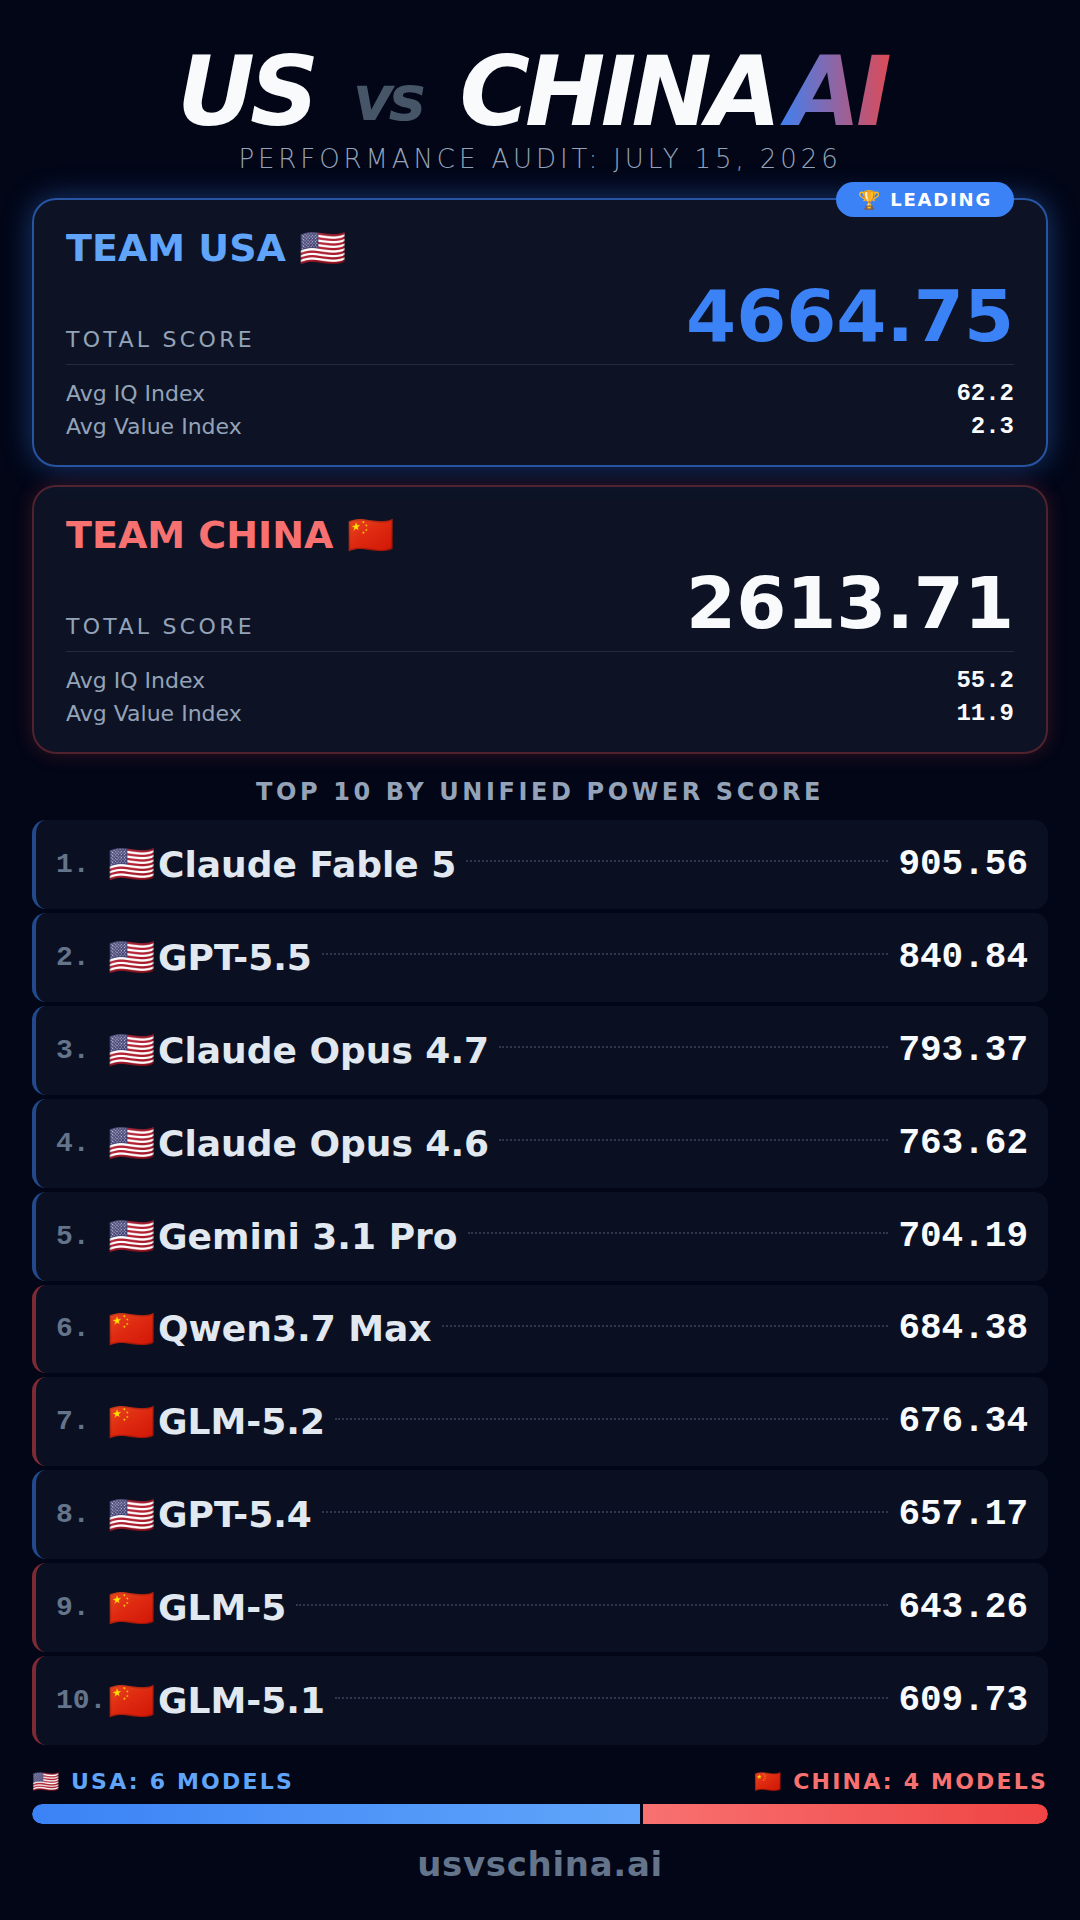
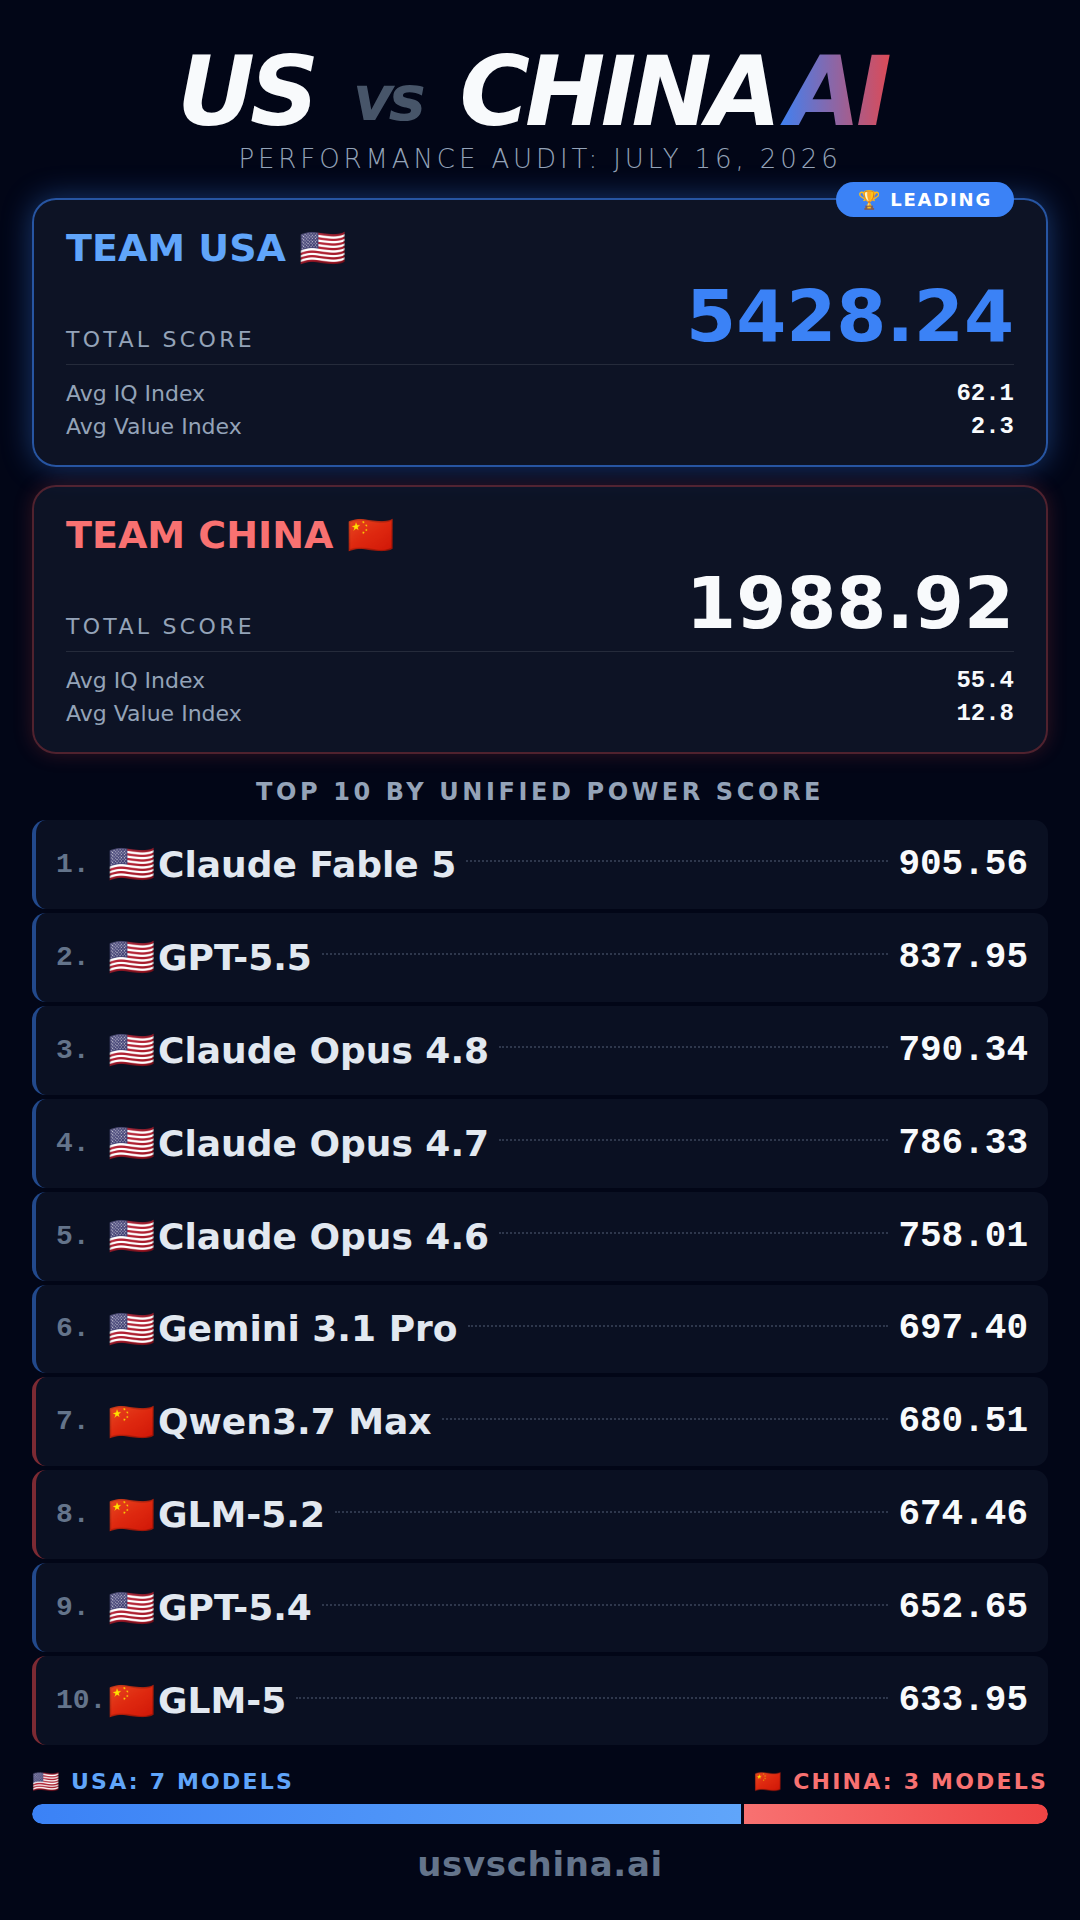
Daily scrape run - 2026-07-16T05:06:05 UTC

diff --git a/about.html b/about.html
@@ -27,7 +27,7 @@
     <meta property="og:url" content="https://usvschina.ai/about.html">
     <meta property="og:title" content="US vs CHINA AI | About - Methodology & Scoring Explained">
     <meta property="og:description" content="Learn how US vs CHINA AI ranks AI models. Understand the scoring methodology and benchmarks.">
-    <meta property="og:image" content="https://usvschina.ai/og-image.png?v=1784091773">
+    <meta property="og:image" content="https://usvschina.ai/og-image.png?v=1784178364">
     <meta property="og:image:width" content="1200">
     <meta property="og:image:height" content="630">
     <meta property="og:image:type" content="image/png">
@@ -39,7 +39,7 @@
     <meta name="twitter:url" content="https://usvschina.ai/about.html">
     <meta name="twitter:title" content="US vs CHINA AI | About - Methodology & Scoring Explained">
     <meta name="twitter:description" content="Learn how US vs CHINA AI ranks AI models. Understand the scoring methodology and benchmarks.">
-    <meta name="twitter:image" content="https://usvschina.ai/og-image.png?v=1784091773">
+    <meta name="twitter:image" content="https://usvschina.ai/og-image.png?v=1784178364">
     
     <!-- Additional SEO/AEO Meta -->
     <!-- theme-color is injected at runtime below to keep the HTML lint-clean

diff --git a/history.html b/history.html
@@ -27,7 +27,7 @@
     <meta property="og:url" content="https://usvschina.ai/history.html">
     <meta property="og:title" content="US vs CHINA AI | Historical Archives - AI Race Timeline">
     <meta property="og:description" content="Track the history of the US vs China AI race. See how AI model rankings have changed over time.">
-    <meta property="og:image" content="https://usvschina.ai/og-image.png?v=1784091773">
+    <meta property="og:image" content="https://usvschina.ai/og-image.png?v=1784178364">
     <meta property="og:image:width" content="1200">
     <meta property="og:image:height" content="630">
     <meta property="og:image:type" content="image/png">
@@ -39,7 +39,7 @@
     <meta name="twitter:url" content="https://usvschina.ai/history.html">
     <meta name="twitter:title" content="US vs CHINA AI | Historical Archives - AI Race Timeline">
     <meta name="twitter:description" content="Track the history of the US vs China AI race. See how AI model rankings have changed over time.">
-    <meta name="twitter:image" content="https://usvschina.ai/og-image.png?v=1784091773">
+    <meta name="twitter:image" content="https://usvschina.ai/og-image.png?v=1784178364">
     
     <!-- Additional SEO/AEO Meta -->
     <!-- theme-color is injected at runtime below to keep the HTML lint-clean

diff --git a/index.html b/index.html
@@ -27,7 +27,7 @@
     <meta property="og:url" content="https://usvschina.ai/">
     <meta property="og:title" content="US vs CHINA AI | Global Leaderboard - Compare Top AI Models 2025">
     <meta property="og:description" content="Compare the world's best AI models ranked by intelligence and cost efficiency. Track which country is winning the AI race.">
-    <meta property="og:image" content="https://usvschina.ai/og-image.png?v=1784091773">
+    <meta property="og:image" content="https://usvschina.ai/og-image.png?v=1784178364">
     <meta property="og:image:width" content="1200">
     <meta property="og:image:height" content="630">
     <meta property="og:image:type" content="image/png">
@@ -39,7 +39,7 @@
     <meta name="twitter:url" content="https://usvschina.ai/">
     <meta name="twitter:title" content="US vs CHINA AI | Global Leaderboard - Compare Top AI Models 2025">
     <meta name="twitter:description" content="Compare the world's best AI models ranked by intelligence and cost efficiency. Track which country is winning the AI race.">
-    <meta name="twitter:image" content="https://usvschina.ai/og-image.png?v=1784091773">
+    <meta name="twitter:image" content="https://usvschina.ai/og-image.png?v=1784178364">
     
     <!-- Additional SEO/AEO Meta -->
     <!-- theme-color is injected at runtime below to keep the HTML lint-clean

diff --git a/privacy.html b/privacy.html
@@ -27,7 +27,7 @@
     <meta property="og:url" content="https://usvschina.ai/privacy.html">
     <meta property="og:title" content="US vs CHINA AI | Privacy Policy">
     <meta property="og:description" content="Privacy policy for US vs CHINA AI. We do not collect personal data.">
-    <meta property="og:image" content="https://usvschina.ai/og-image.png?v=1784091773">
+    <meta property="og:image" content="https://usvschina.ai/og-image.png?v=1784178364">
     <meta property="og:image:width" content="1200">
     <meta property="og:image:height" content="630">
     <meta property="og:image:type" content="image/png">
@@ -39,7 +39,7 @@
     <meta name="twitter:url" content="https://usvschina.ai/privacy.html">
     <meta name="twitter:title" content="US vs CHINA AI | Privacy Policy">
     <meta name="twitter:description" content="Privacy policy for US vs CHINA AI. We do not collect personal data.">
-    <meta name="twitter:image" content="https://usvschina.ai/og-image.png?v=1784091773">
+    <meta name="twitter:image" content="https://usvschina.ai/og-image.png?v=1784178364">
 
     <!-- Additional SEO/AEO Meta -->
     <!-- theme-color is injected at runtime below to keep the HTML lint-clean

diff --git a/terms.html b/terms.html
@@ -27,7 +27,7 @@
     <meta property="og:url" content="https://usvschina.ai/terms.html">
     <meta property="og:title" content="US vs CHINA AI | Terms of Service">
     <meta property="og:description" content="Terms of Service for US vs CHINA AI. Derived data disclaimers and limitations.">
-    <meta property="og:image" content="https://usvschina.ai/og-image.png?v=1784091773">
+    <meta property="og:image" content="https://usvschina.ai/og-image.png?v=1784178364">
     <meta property="og:image:width" content="1200">
     <meta property="og:image:height" content="630">
     <meta property="og:image:type" content="image/png">
@@ -39,7 +39,7 @@
     <meta name="twitter:url" content="https://usvschina.ai/terms.html">
     <meta name="twitter:title" content="US vs CHINA AI | Terms of Service">
     <meta name="twitter:description" content="Terms of Service for US vs CHINA AI. Derived data disclaimers and limitations.">
-    <meta name="twitter:image" content="https://usvschina.ai/og-image.png?v=1784091773">
+    <meta name="twitter:image" content="https://usvschina.ai/og-image.png?v=1784178364">
 
     <!-- Additional SEO/AEO Meta -->
     <!-- theme-color is injected at runtime below to keep the HTML lint-clean